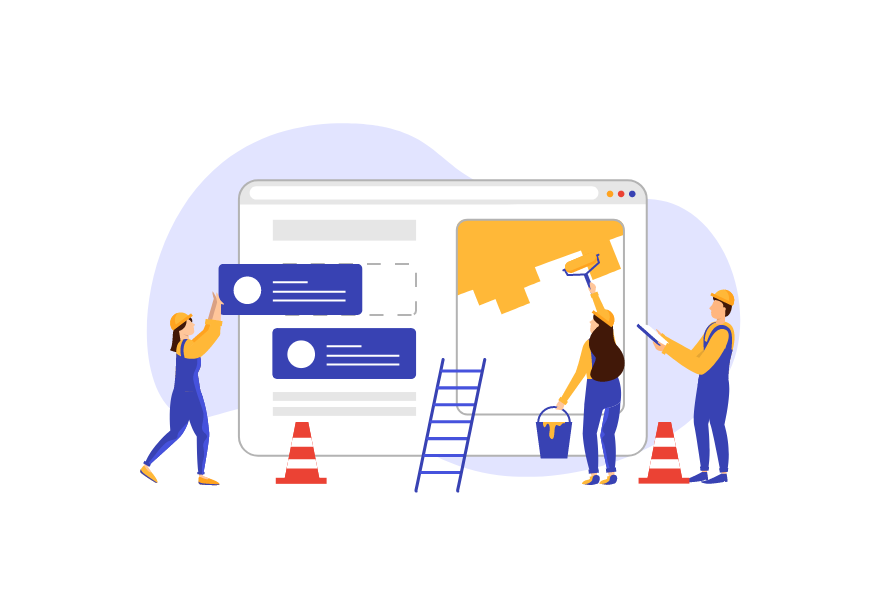
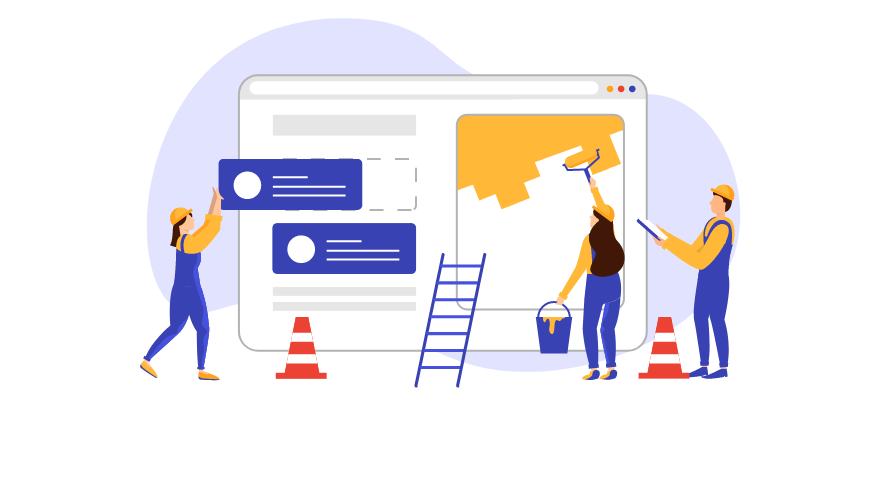
Make images as responsive

Changed region(s): [[0.1543, 0.0298, 0.864, 0.8036]]

diff --git a/assets/css/style.css b/assets/css/style.css
@@ -913,3 +913,16 @@ section {
   left: 50%;
   transform: translate(-50%, -50%);
 }
+
+/*------------Under construction-----------*/
+#under-construction {
+  position: fixed;
+  top: 50%;
+  left: 50%;
+  transform: translate(-50%, -50%);
+}
+
+#under-construction h2 {
+  margin-top: 40px;
+  color: #274D6C;
+}

diff --git a/components/under-construction.inc.php b/components/under-construction.inc.php
@@ -1,11 +1,10 @@
-<!--========================= Under Construction Section========================= -->
-<section id="under-construction">
-        <div class="row justify-content-center">
-            <div class="card text-black">
+<!--========================= Under Construction ========================= -->
+
+        <div class="row justify-content-center" id="under-construction">
+            <div class="card text-black border-0  text-center">
                 <h2>Page is under construction</h2>
-                <img class="card-img" src="../assets/img/under-construction.png" alt="Page is Under Construction">
+                <img class="img-fluid" src="../assets/img/under-construction.png" alt="Page is Under Construction">
             </div>
         </div>
-</section>
 
-<!--========================= End Under Construction Section========================= -->
+<!--========================= End Under Construction ========================= -->
